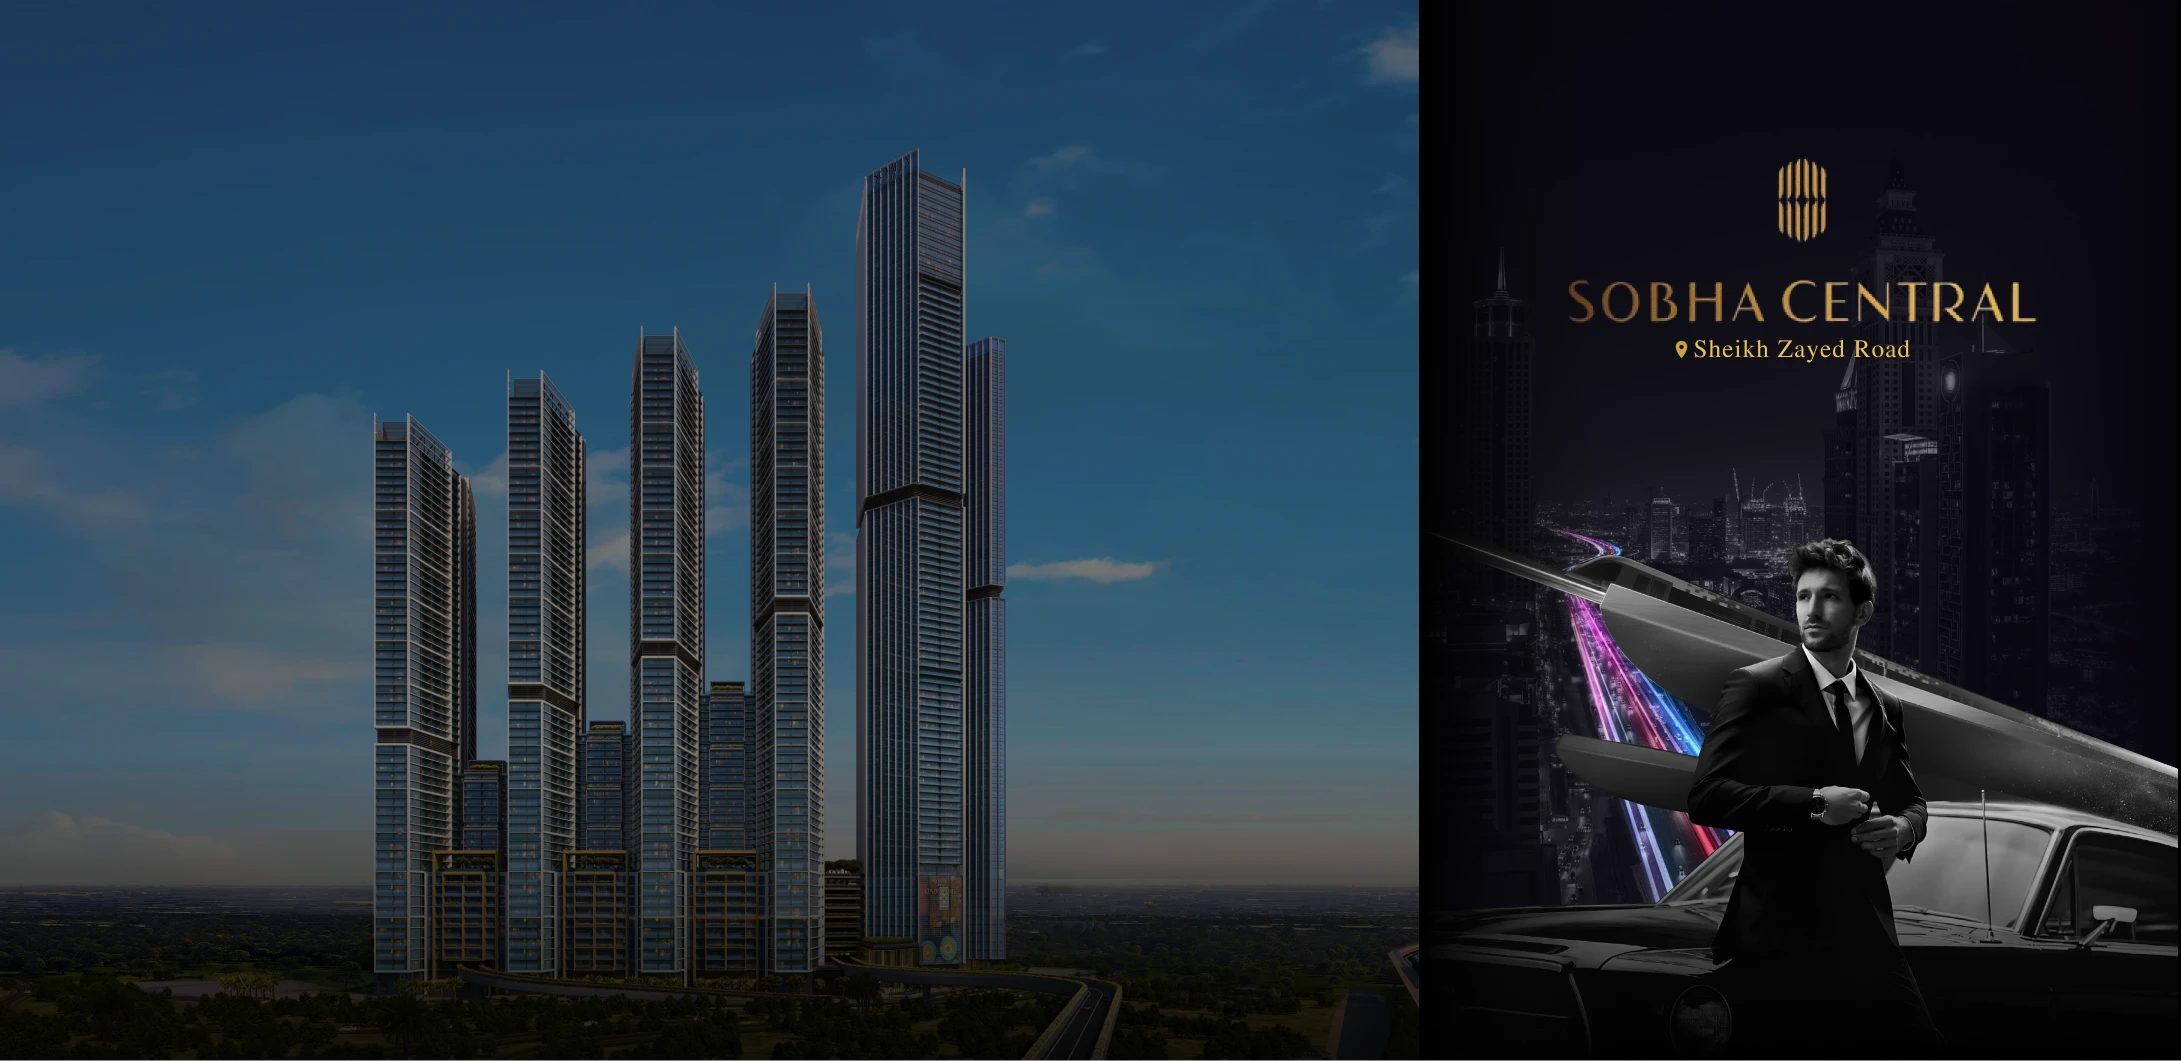
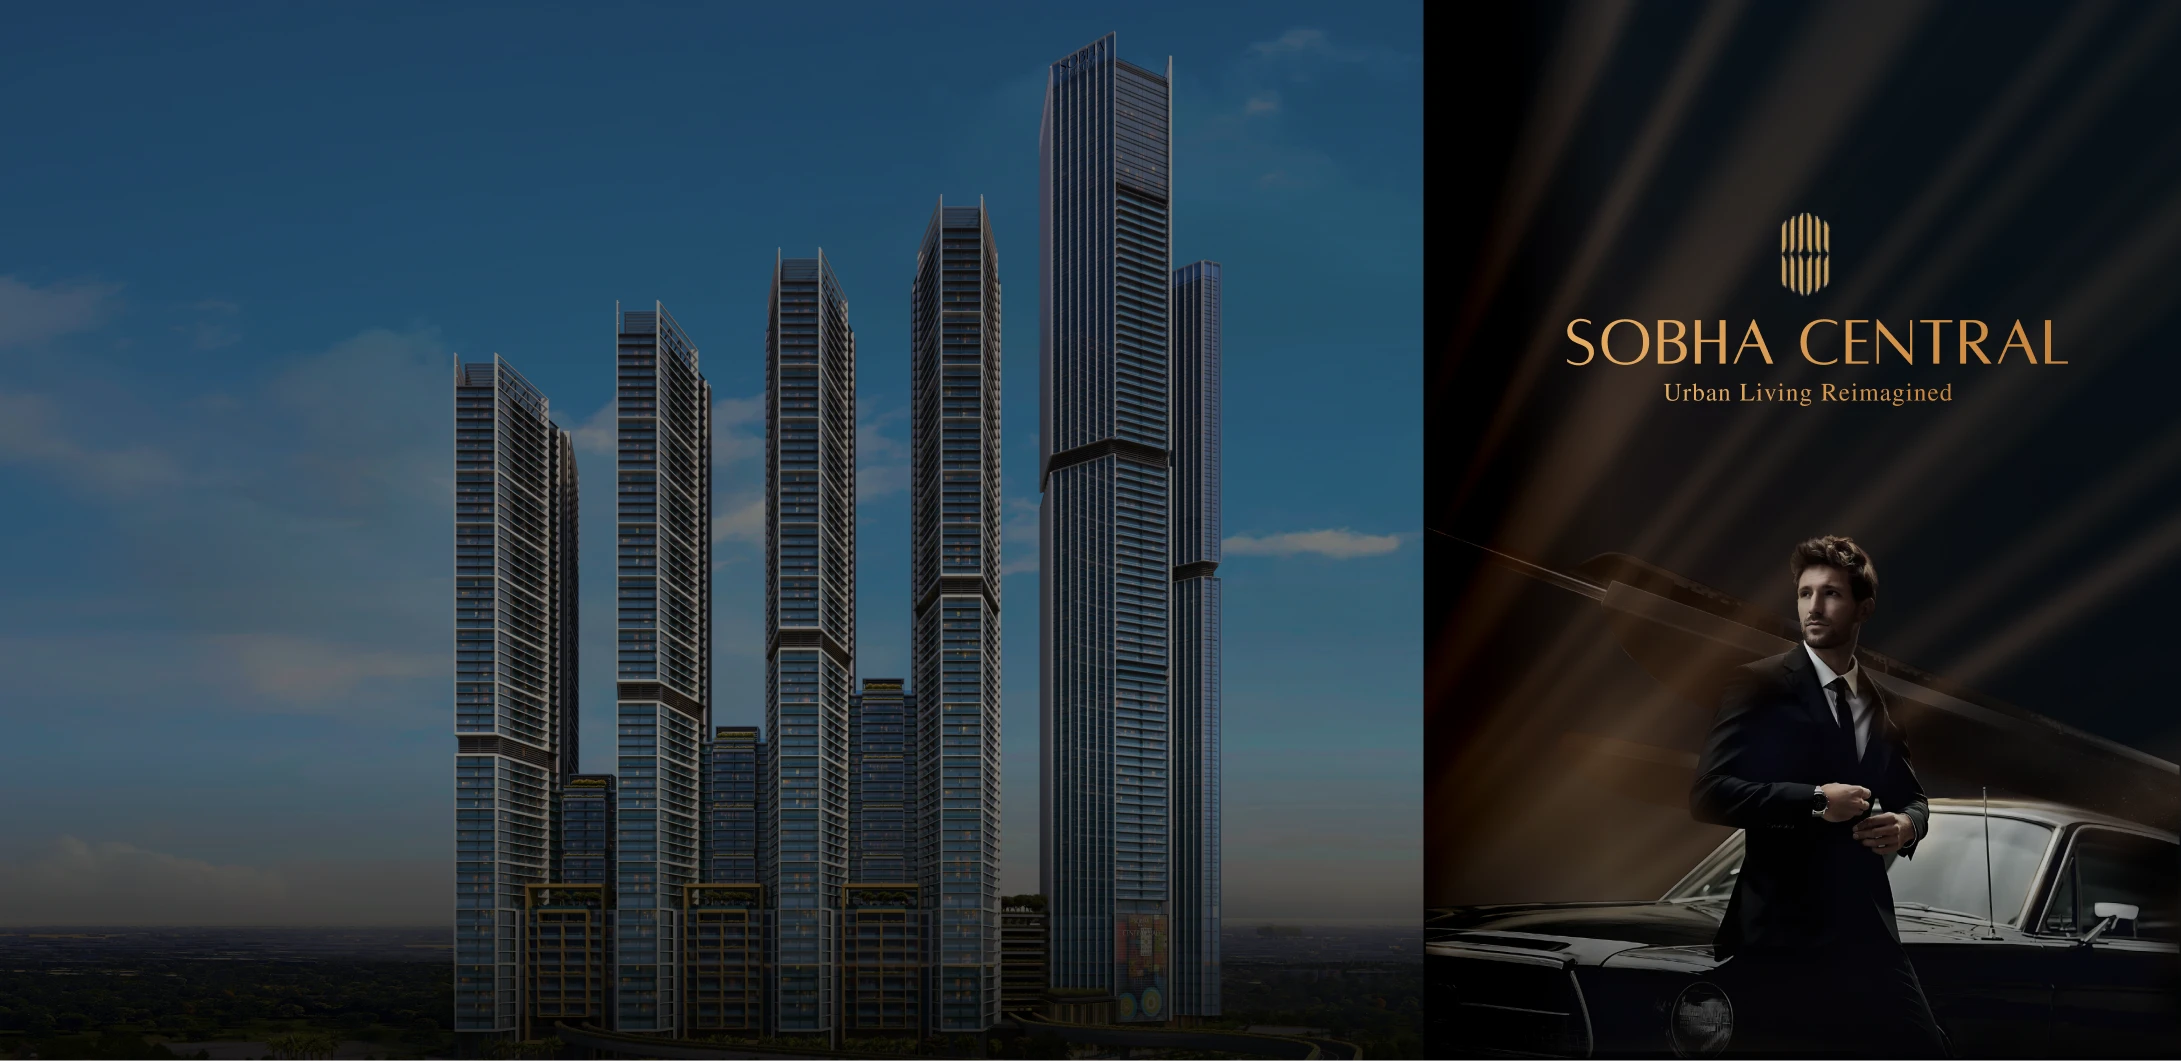
theme changed

diff --git a/src/component/subProject/sobhaCenter/componets/ADHeader.jsx b/src/component/subProject/sobhaCenter/componets/ADHeader.jsx
@@ -137,12 +137,12 @@ export const ADHeader = () => {
                     }`}
                     onClick={goToAboutHead}
                   >
-                    <p className="group-hover:text-[#0D84C8] transition duration-200 ease-out">
+                    <p className="group-hover:text-[#d59d52] transition duration-200 ease-out">
                       About
                     </p>
                     <span
                       className={
-                        "absolute bottom-0 left-0 w-full h-0.5 bg-[#0D84C8] rounded origin-bottom-right transform transition duration-200 ease-out scale-x-0 group-hover:scale-x-100 group-hover:origin-bottom-left"
+                        "absolute bottom-0 left-0 w-full h-0.5 bg-[#d59d52] rounded origin-bottom-right transform transition duration-200 ease-out scale-x-0 group-hover:scale-x-100 group-hover:origin-bottom-left"
                       }
                     ></span>
                   </li>
@@ -152,10 +152,10 @@ export const ADHeader = () => {
                     }`}
                     onClick={goToFloorPlanHead}
                   >
-                    <p className="group-hover:text-[#0D84C8] transition duration-200 ease-out">
+                    <p className="group-hover:text-[#d59d52] transition duration-200 ease-out">
                       Floor Plan
                     </p>
-                    <span className="absolute bottom-0 left-0 w-full h-0.5 bg-[#0D84C8] rounded origin-bottom-right transform transition duration-200 ease-out scale-x-0 group-hover:scale-x-100 group-hover:origin-bottom-left"></span>
+                    <span className="absolute bottom-0 left-0 w-full h-0.5 bg-[#d59d52] rounded origin-bottom-right transform transition duration-200 ease-out scale-x-0 group-hover:scale-x-100 group-hover:origin-bottom-left"></span>
                   </li>
                   <li
                     className={`relative inline-flex items-center justify-center group m-2 ${
@@ -163,10 +163,10 @@ export const ADHeader = () => {
                     }`}
                     onClick={goToPaymentHead}
                   >
-                    <p className="group-hover:text-[#0D84C8] transition duration-200 ease-out">
+                    <p className="group-hover:text-[#d59d52] transition duration-200 ease-out">
                       Payment Plan
                     </p>
-                    <span className="absolute bottom-0 left-0 w-full h-0.5 bg-[#0D84C8] rounded origin-bottom-right transform transition duration-200 ease-out scale-x-0 group-hover:scale-x-100 group-hover:origin-bottom-left"></span>
+                    <span className="absolute bottom-0 left-0 w-full h-0.5 bg-[#d59d52] rounded origin-bottom-right transform transition duration-200 ease-out scale-x-0 group-hover:scale-x-100 group-hover:origin-bottom-left"></span>
                   </li>
                   <li
                     onClick={goToAmenitiesHead}
@@ -174,10 +174,10 @@ export const ADHeader = () => {
                       location.pathname == "/about" && "activeHead"
                     }`}
                   >
-                    <p className="group-hover:text-[#0D84C8] transition duration-200 ease-out">
+                    <p className="group-hover:text-[#d59d52] transition duration-200 ease-out">
                       Amenities
                     </p>
-                    <span className="absolute bottom-0 left-0 w-full h-0.5 bg-[#0D84C8] rounded origin-bottom-right transform transition duration-200 ease-out scale-x-0 group-hover:scale-x-100 group-hover:origin-bottom-left"></span>
+                    <span className="absolute bottom-0 left-0 w-full h-0.5 bg-[#d59d52] rounded origin-bottom-right transform transition duration-200 ease-out scale-x-0 group-hover:scale-x-100 group-hover:origin-bottom-left"></span>
                   </li>
 
                   <li
@@ -186,10 +186,10 @@ export const ADHeader = () => {
                       location.pathname == "/about" && "activeHead"
                     }`}
                   >
-                    <p className="group-hover:text-[#0D84C8] transition duration-200 ease-out">
+                    <p className="group-hover:text-[#d59d52] transition duration-200 ease-out">
                       Contact
                     </p>
-                    <span className="absolute bottom-0 left-0 w-full h-0.5 bg-[#0D84C8] rounded origin-bottom-right transform transition duration-200 ease-out scale-x-0 group-hover:scale-x-100 group-hover:origin-bottom-left"></span>
+                    <span className="absolute bottom-0 left-0 w-full h-0.5 bg-[#d59d52] rounded origin-bottom-right transform transition duration-200 ease-out scale-x-0 group-hover:scale-x-100 group-hover:origin-bottom-left"></span>
                   </li>
                 </ul>
               </nav>
@@ -198,7 +198,7 @@ export const ADHeader = () => {
                   <li className="group">
                     <button
                       onClick={() => setShowPopup(true)}
-                      className="bg-[#FFFF] hover:bg-[#0D84C8] text-[#000000] hover:text-[#FFFF] w-full px-4 py-1 rounded duration-100 flex justify-center text-[0.6rem] sm:text-[0.9rem]"
+                      className="bg-[#FFFF] hover:bg-[#d59d52] text-[#000000] hover:text-[#FFFF] w-full px-4 py-1 rounded duration-100 flex justify-center text-[0.6rem] sm:text-[0.9rem]"
                     >
                       Download Brochure
                     </button>

diff --git a/src/component/subProject/sobhaCenter/componets/ADContactForm.jsx b/src/component/subProject/sobhaCenter/componets/ADContactForm.jsx
@@ -177,7 +177,7 @@ export const ADContactForm = ({ onFormSubmit }) => {
         </div>
         <div>
           <button
-            className="bg-[#000000] hover:bg-[#0D84C8] text-[#ffffff] hover:text-[#ffffff] w-full p-[10px] mt-[25px] rounded duration-100 flex justify-center"
+            className="bg-[#000000] hover:bg-[#d59d52] text-[#ffffff] hover:text-[#ffffff] w-full p-[10px] mt-[25px] rounded duration-100 flex justify-center"
             disabled={loading}
           >
             {loading ? (
@@ -193,8 +193,8 @@ export const ADContactForm = ({ onFormSubmit }) => {
               target="_blank"
               className="flex items-center justify-center group"
             >
-              <FaWhatsapp className="text-[#0072B2] text-[1.3rem] ml-2 group-hover:text-[#6B9B2D]" />
-              <p className="mb-0 !text-[#0072B2] group-hover:!text-[#6B9B2D]">
+              <FaWhatsapp className="text-[#d59d52] text-[1.3rem] ml-2 group-hover:text-[#6B9B2D]" />
+              <p className="mb-0 !text-[#d59d52] group-hover:!text-[#6B9B2D]">
                 WhatsApp
               </p>
             </a>

diff --git a/src/component/subProject/sobhaCenter/componets/ADFooterForm.jsx b/src/component/subProject/sobhaCenter/componets/ADFooterForm.jsx
@@ -183,7 +183,7 @@ export const ADFooterForm = ({ onFormSubmit }) => {
         </div>
         <div>
           <button
-            className="bg-[#ffffff] hover:bg-[#9D2742] text-[#000000] hover:text-[#ffffff] w-full p-[10px] mt-[25px] rounded duration-100 flex justify-center"
+            className="bg-[#ffffff] hover:bg-[#E5AC62] text-[#000000] hover:text-[#ffffff] w-full p-[10px] mt-[25px] rounded duration-100 flex justify-center"
             disabled={loading}
           >
             {loading ? (
@@ -199,8 +199,8 @@ export const ADFooterForm = ({ onFormSubmit }) => {
               target="_blank"
               className="flex items-center justify-center group"
             >
-              <FaWhatsapp className="text-[#9D2742] text-[1.3rem] ml-2 group-hover:text-[#6B9B2D]" />
-              <p className="mb-0 !text-[#9D2742] group-hover:!text-[#6B9B2D]">
+              <FaWhatsapp className="text-[#E5AC62] text-[1.3rem] ml-2 group-hover:text-[#6B9B2D]" />
+              <p className="mb-0 !text-[#E5AC62] group-hover:!text-[#6B9B2D]">
                 WhatsApp
               </p>
             </a>

diff --git a/src/component/subProject/sobhaCenter/componets/ADimgSlider.jsx b/src/component/subProject/sobhaCenter/componets/ADimgSlider.jsx
@@ -1,11 +1,11 @@
 import React, { useState } from "react";
 import Slider from "react-slick";
-import slidImg1 from "../../../../assets/pojects/addressVilla/sliderImg01.webp";
-import slidImg2 from "../../../../assets/pojects/addressVilla/sliderImg02.webp";
-import slidImg3 from "../../../../assets/pojects/addressVilla/sliderImg03.webp";
-import slidImg4 from "../../../../assets/pojects/addressVilla/sliderImg04.webp";
-import slidImg5 from "../../../../assets/pojects/addressVilla/sliderImg05.webp";
-import slidImg6 from "../../../../assets/pojects/addressVilla/sliderImg06.webp";
+import slidImg1 from "../../../../assets/pojects/sobhaCenter/Slide-1.webp";
+import slidImg2 from "../../../../assets/pojects/sobhaCenter/Slide-2.webp";
+import slidImg3 from "../../../../assets/pojects/sobhaCenter/Slide-3.webp";
+import slidImg4 from "../../../../assets/pojects/sobhaCenter/Slide-4.webp";
+import slidImg5 from "../../../../assets/pojects/sobhaCenter/Slide-5.webp";
+import slidImg6 from "../../../../assets/pojects/sobhaCenter/Slide-4.webp";
 import PopupModel from "./ADmodel";
 
 export const ADimgSlider = () => {

diff --git a/src/component/subProject/sobhaCenter/componets/ADFormBanner.jsx b/src/component/subProject/sobhaCenter/componets/ADFormBanner.jsx
@@ -15,7 +15,7 @@ export const ADFormBanner = ({ onClose, onFormSubmit }) => {
         <div className="px-[20px] py-[30px] md:px-[50px] md:py-[50px] grid md:grid-cols-2">
           <div>
             <div className="banner-content z-10">
-              <h1 className="banner-h1 text-[#0072B2] text-[1.1rem] sm:text-[1.3rem] md:text-[1.7rem]">
+              <h1 className="banner-h1 text-[#d59d52] text-[1.1rem] sm:text-[1.3rem] md:text-[1.7rem]">
                 Luxury Living on Sheikh Zayed Road
               </h1>
               <h2 className="text-[0.9rem] md:text-[1.2rem] font-semibold capitalize text-[#000]">
@@ -42,7 +42,7 @@ export const ADFormBanner = ({ onClose, onFormSubmit }) => {
               </div>
               <button
                 onClick={() => setShowPopup(true)}
-                className="site-btn !text-[#fff] hover:!text-[#ffffff] !border-none bg-[#0D84C8] hover:!bg-black"
+                className="site-btn !text-[#fff] hover:!text-[#ffffff] !border-none bg-[#d59d52] hover:!bg-black"
               >
                 Request callback
               </button>

diff --git a/src/component/subProject/sobhaCenter/componets/ADFloorPlan.jsx b/src/component/subProject/sobhaCenter/componets/ADFloorPlan.jsx
@@ -26,20 +26,20 @@ export const ADFloorPlan = () => {
     <div className="overflow-hidden">
       <div className="tabs1">
         <button
-          className={`tab-btn hover:!bg-[#0D84C8] !ml-0 z-30 ${
-            activeTab === "Tab1" ? "!bg-[#0D84C8]" : ""
+          className={`tab-btn hover:!bg-[#d59d52] !ml-0 z-30 ${
+            activeTab === "Tab1" ? "!bg-[#d59d52]" : ""
           }`}
           onClick={() => handleTabClick("Tab1")}
         >
           1 BHK
         </button>
         <button
-          className={`tab-btn hover:!bg-[#0D84C8] z-20 ${
-            activeTab === "Tab2" ? "!bg-[#0D84C8]" : ""
+          className={`tab-btn hover:!bg-[#d59d52] z-20 ${
+            activeTab === "Tab2" ? "!bg-[#d59d52]" : ""
           }`}
           onClick={() => handleTabClick("Tab2")}
         >
-         2 BHK
+          2 BHK
         </button>
       </div>
       <div className="tab-content bg-[#D9D9D9] p-1 md:p-3">

diff --git a/src/component/subProject/sobhaCenter/componets/ADTalkSection.jsx b/src/component/subProject/sobhaCenter/componets/ADTalkSection.jsx
@@ -1,8 +1,8 @@
 import React from "react";
-import Assist from "../../../../assets/pojects/addressVilla/icon01.webp";
-import Consultation from "../../../../assets/pojects/addressVilla/icon02.webp";
-import Estimation from "../../../../assets/pojects/addressVilla/icon03.webp";
-import Shedule from "../../../../assets/pojects/addressVilla/icon04.webp";
+import Assist from "../../../../assets/icons/assist.webp";
+import Consultation from "../../../../assets/icons/consultation.webp";
+import Estimation from "../../../../assets/icons/estimation.webp";
+import Shedule from "../../../../assets/icons/shedule.webp";
 import LTalkFooterForm from "./ADTalkFooterForm";
 
 export const ADTalkSection = () => {

diff --git a/src/component/subProject/sobhaCenter/componets/ADTalkFooterForm.jsx b/src/component/subProject/sobhaCenter/componets/ADTalkFooterForm.jsx
@@ -193,8 +193,8 @@ export const ADTalkFooterForm = ({ onFormSubmit }) => {
               target="_blank"
               className="flex items-center justify-center group"
             >
-              <FaWhatsapp className="text-[#0D84C8] text-[1.3rem] ml-2 group-hover:text-[#6B9B2D]" />
-              <p className="mb-0 !text-[#0D84C8] group-hover:!text-[#6B9B2D]">
+              <FaWhatsapp className="text-[#E5AC62] text-[1.3rem] ml-2 group-hover:text-[#6B9B2D]" />
+              <p className="mb-0 !text-[#E5AC62] group-hover:!text-[#6B9B2D]">
                 WhatsApp
               </p>
             </a>

diff --git a/src/component/subProject/sobhaCenter/componets/ADModelForm.jsx b/src/component/subProject/sobhaCenter/componets/ADModelForm.jsx
@@ -198,8 +198,8 @@ export const ADModelForm = ({ onFormSubmit }) => {
               target="_blank"
               className="flex items-center justify-center group"
             >
-              <FaWhatsapp className="text-[#0D84C8] text-[1.3rem] ml-2 group-hover:text-[#6B9B2D]" />
-              <p className="mb-0 !text-[#0D84C8] group-hover:!text-[#6B9B2D]">
+              <FaWhatsapp className="text-[#d59d52] text-[1.3rem] ml-2 group-hover:text-[#6B9B2D]" />
+              <p className="mb-0 !text-[#d59d52] group-hover:!text-[#6B9B2D]">
                 WhatsApp
               </p>
             </a>

diff --git a/src/component/subProject/sobhaCenter/componets/ADAmenitiesImg.jsx b/src/component/subProject/sobhaCenter/componets/ADAmenitiesImg.jsx
@@ -1,7 +1,7 @@
 import React, { useState } from "react";
 import Slider from "react-slick";
-import slidImg1 from "../../../../assets/pojects/";
-import slidImg2 from "../../../../assets/lavioleta/aminitimg2.webp";
+import slidImg1 from "../../../../assets/pojects/sobhaCenter/Slide-5.webp";
+import slidImg2 from "../../../../assets/pojects/sobhaCenter/Slide-1.webp";
 import slidImg3 from "../../../../assets/lavioleta/aminitimg3.webp";
 import slidImg4 from "../../../../assets/lavioleta/aminitimg4.webp";
 import slidImg5 from "../../../../assets/lavioleta/aminitimg5.webp";

diff --git a/src/component/subProject/sobhaCenter/componets/ADpaymentPlan.jsx b/src/component/subProject/sobhaCenter/componets/ADpaymentPlan.jsx
@@ -36,7 +36,7 @@ export const ADpaymentPlan = () => {
         )}
         <table className="w-full border-2 overflow-auto border-[#000] bg-[#fff] ">
           <thead>
-            <tr className="bg-[#0D84C8] text-[#fff]">
+            <tr className="bg-[#d59d52] text-[#fff]">
               <th>Description</th>
               <th>Milestone Event</th>
               <th>(%) Value</th>

diff --git a/src/component/subProject/sobhaCenter/componets/ADFloorPlanComponent.jsx b/src/component/subProject/sobhaCenter/componets/ADFloorPlanComponent.jsx
@@ -1,5 +1,5 @@
 import React from "react";
-import FloorCover1 from "../../../../assets/pojects/addressVilla/sideCover.webp";
+import FloorCover1 from "../../../../assets/pojects/grandPolo/sideCover.webp";
 import ImgText from "../../../../assets/lavioleta/personally_visited_approved.webp";
 import FloorPlan from "./ADFloorPlan";
 
